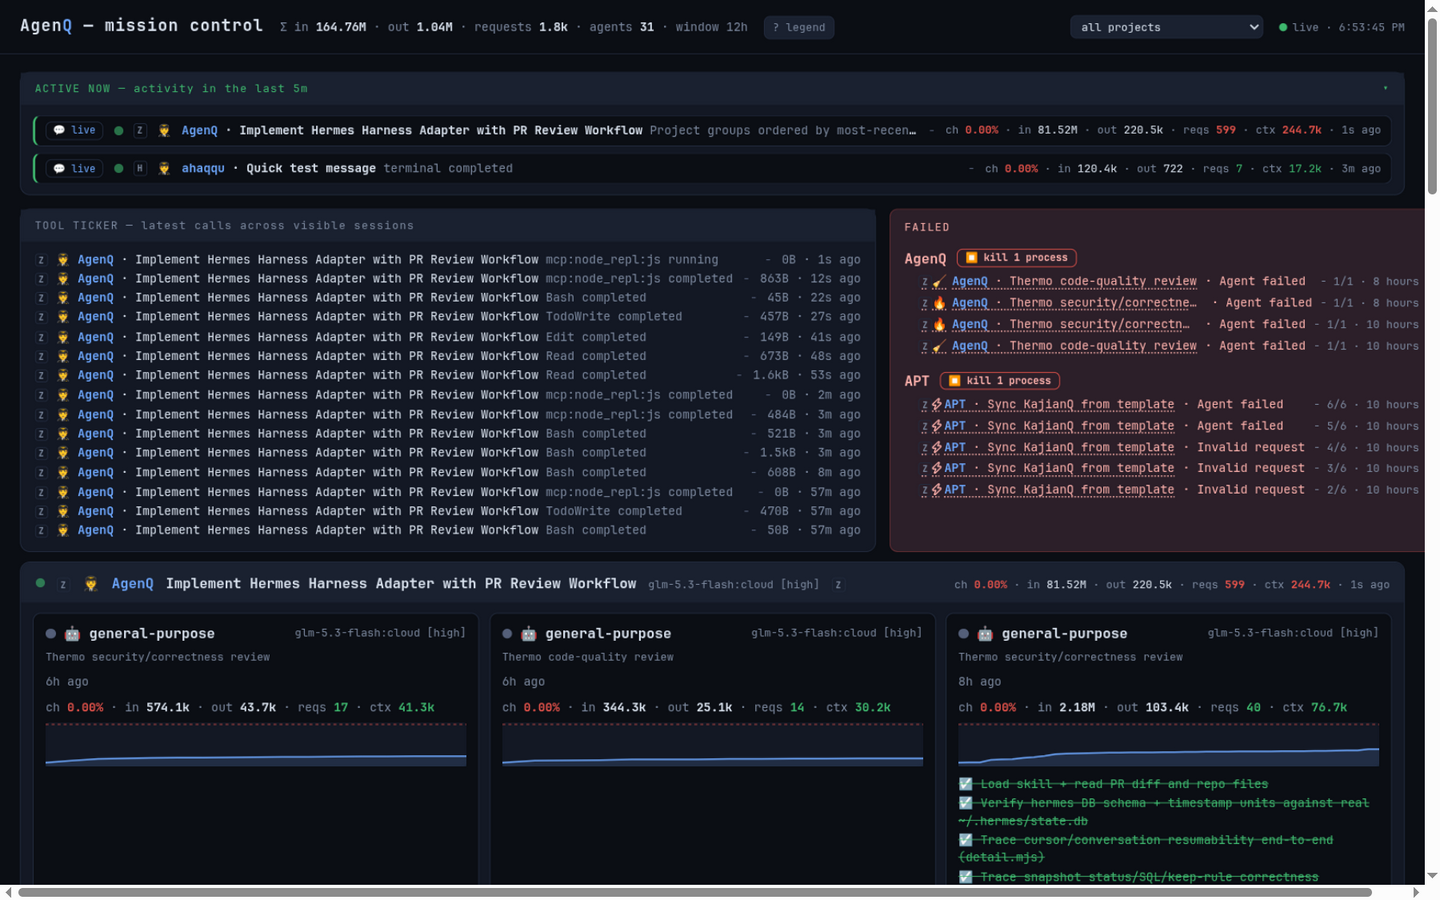
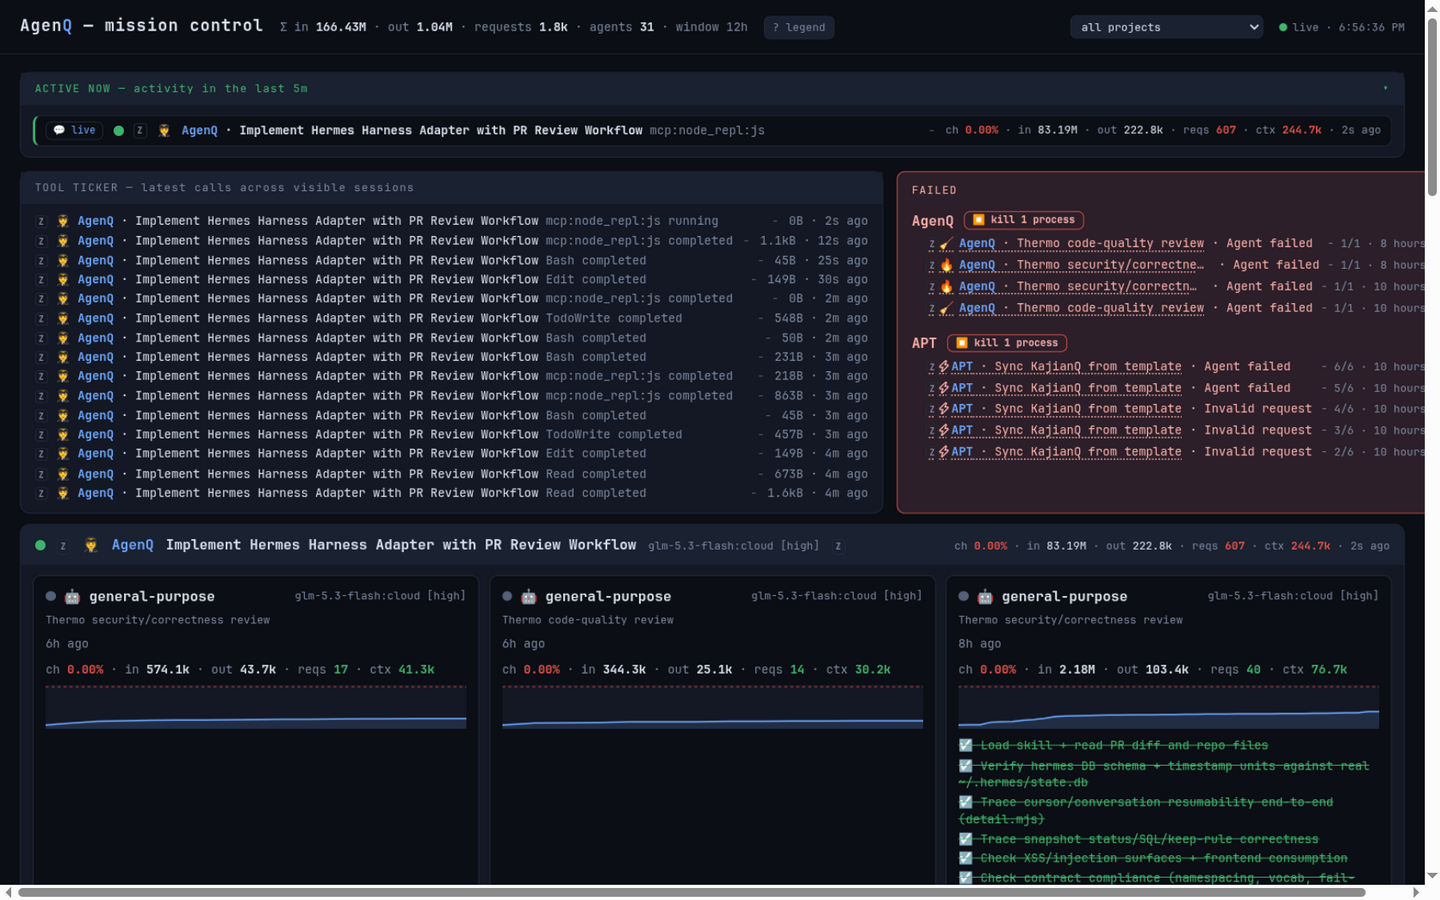
Tree ordering: time first, project second
Pure recency ordering for sections (newest roots first, newest children
first) — same-project sections cluster naturally because they share
activity windows. Screenshot retaken.

Changed region(s): [[0.0, 0.1556, 1.0, 0.9956], [0.4688, 0.1244, 0.625, 0.1556]]

diff --git a/public/app.js b/public/app.js
@@ -357,21 +357,12 @@ function render(state) {
       (open ? `<div class="chipdetail" id="detail-${esc(s.id)}">${detailHtml(detailCache.get(s.id))}</div>` : "");
   }).join("");
 
-  // tree — sections grouped by project; the group order follows each
-  // project's most recent activity (fresh projects float to the top), and
-  // roots within a group are newest first. Children newest first too.
-  const projLast = new Map(); // project -> newest lastAt among its roots
-  for (const rid of state.roots) {
-    const r = byId.get(rid);
-    if (!r?.project) continue;
-    projLast.set(r.project, Math.max(projLast.get(r.project) ?? 0, r.lastAt ?? 0));
-  }
-  const byProject = (a, b) =>
-    (projLast.get(b.project ?? "~none") ?? 0) - (projLast.get(a.project ?? "~none") ?? 0) ||
-    byLast(a, b);
+  // tree — ordered by time only (newest roots first, newest children
+  // first): recency is the primary key; same-project sections end up
+  // adjacent on their own because they share activity windows
   const seen = new Set();
   const sections = [];
-  const rootNodes = state.roots.map((rid) => byId.get(rid)).filter(Boolean).sort(byProject);
+  const rootNodes = state.roots.map((rid) => byId.get(rid)).filter(Boolean).sort(byLast);
   for (const root of rootNodes) {
     if (!root) continue;
     if (!matches(root)) continue;
